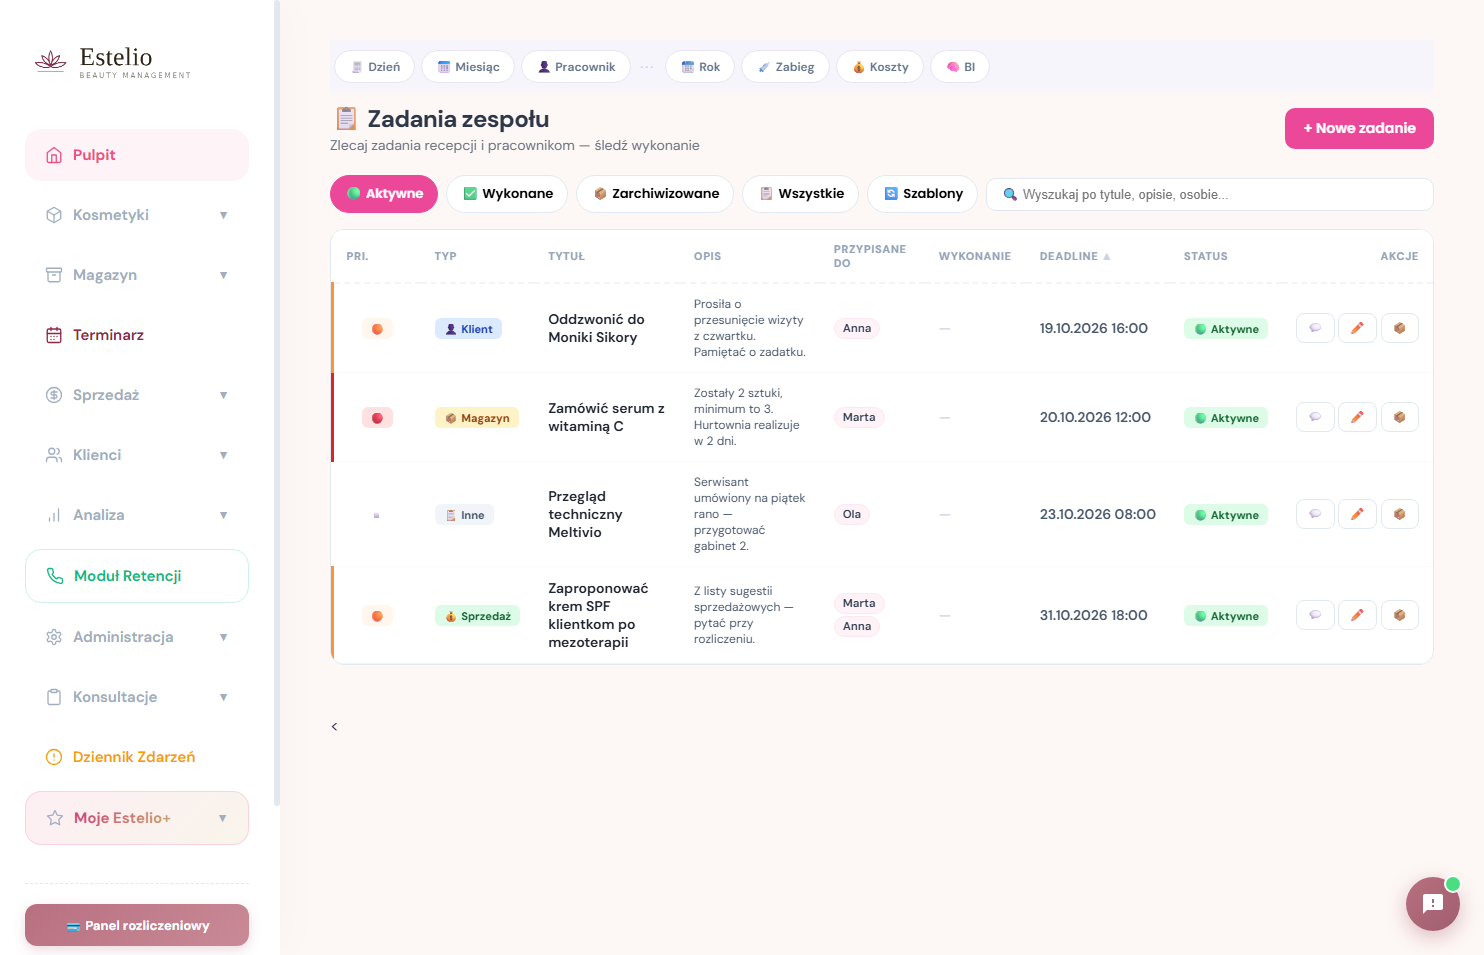
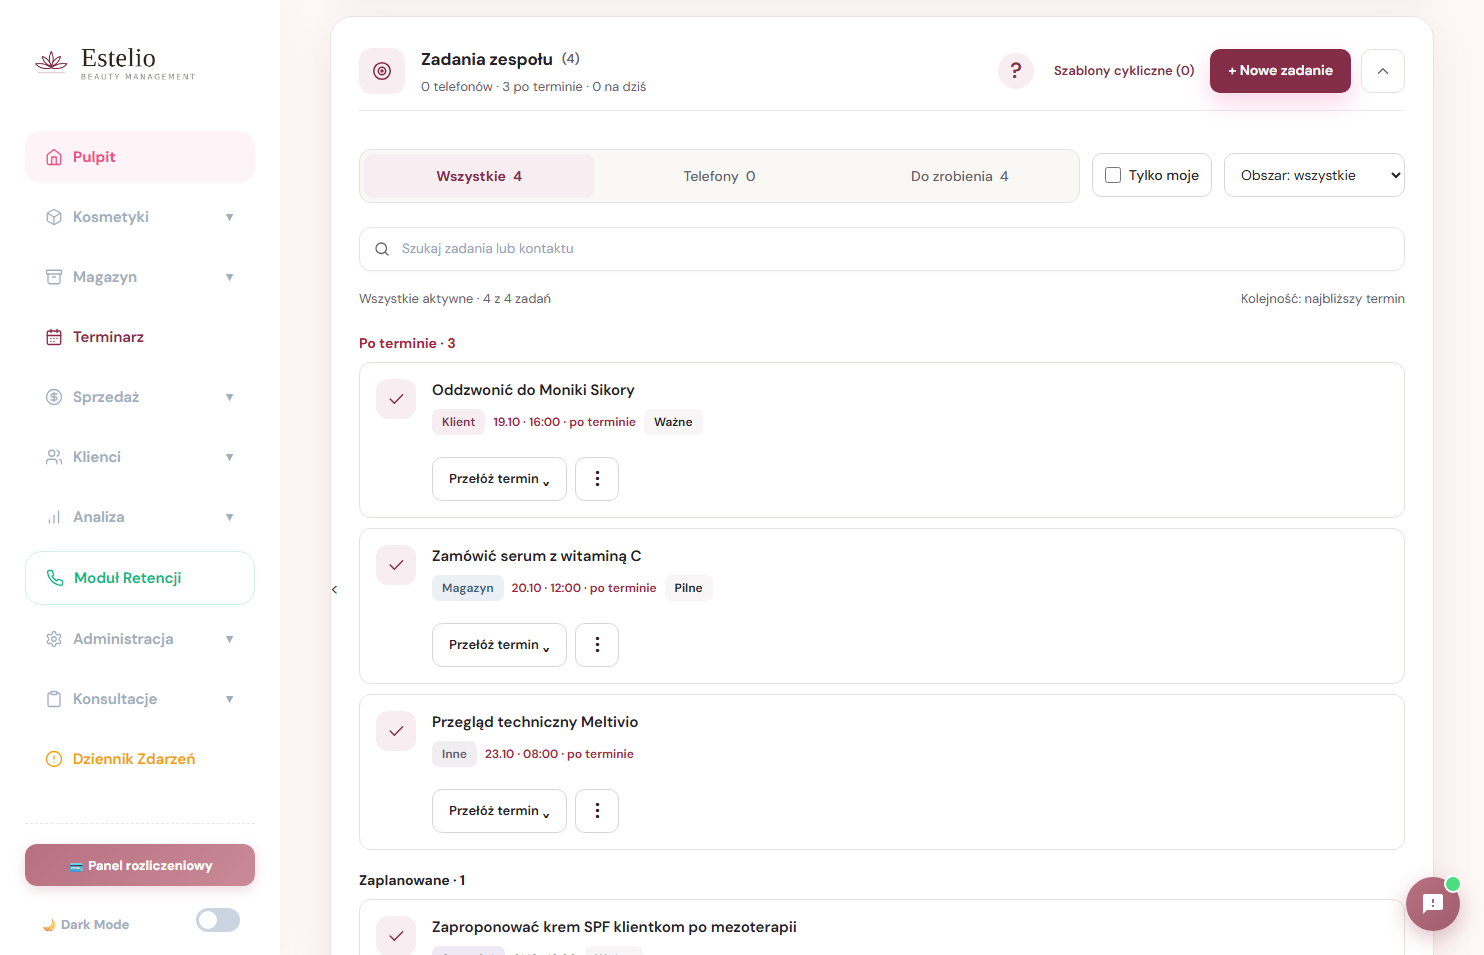
docs(pomoc): rozdział Pulpit — nowy opis widgetu Zadań, bez kafelka „Dziś w lokalu”, świeże zrzuty
- #pulpit: scenariusz poranny i sekcja „Twoje zadania” opisują jedną listę z przełącznikami
  Wszystkie/Telefony/Do zrobienia, Zadzwoń, Przełóż termin; usunięty kafelek Booksy z listy skrótów
- zrzuty pom-03-pulpit.png i pom-39-zadania.png wykonane na izolowanym środowisku po redesignie (1484×955)

diff --git a/public/estelio_pomoc_f.html b/public/estelio_pomoc_f.html
@@ -374,8 +374,8 @@
           <p><strong>Pulpit ma 5 sekcji ułożonych od góry:</strong></p>
           <p><strong>1. "Dzień dobry, Marta! 👋"</strong> + zegar aktualizacji</p>
           <p><strong>2. "📊 Na dziś"</strong> — kafelki KPI ale Marta jako recepcja TEGO NIE WIDZI (to widzi tylko manager/admin). Sekcja ukryta.</p>
-          <p><strong>3. "📋 Twoje zadania"</strong> — banner pokazuje "Masz 3 zadania na dziś, 1 wymaga pilnego działania". Patrycja zostawiła Marcie zadanie "Zadzwoń do Pani Kowalskiej w sprawie rezerwacji" z priorytetem PILNY i terminem na dziś 14:00. Plus "Sprawdź stan kremów Vagheggi" (zwykłe).</p>
-          <p><strong>4. "⚡ Szybki dostęp"</strong> — kompaktowe kafelki-skróty. Marta widzi: Podsumowanie dnia / Do sprawdzenia (z licznikiem spraw) / Dziś w lokalu / Foto przed/po / Link do płatności.</p>
+          <p><strong>3. "Twoje zadania"</strong> — nagłówek mówi: "Masz 3 aktywne zadania · 1 telefon · 1 po terminie · 1 na dziś". Lista otwiera się w widoku <strong>Wszystkie</strong>, pogrupowana czasem. Patrycja zostawiła Marcie telefon "Potwierdzić rezerwację — Pani Kowalska" z numerem i przyciskiem <strong>Zadzwoń</strong>, w grupie "Na dziś" ze znacznikiem "Pilne". Plus "Sprawdź stan kremów Vagheggi" (do zrobienia).</p>
+          <p><strong>4. "⚡ Szybki dostęp"</strong> — kompaktowe kafelki-skróty. Marta widzi: Podsumowanie dnia / Do sprawdzenia (z licznikiem spraw) / Foto przed/po / Link do płatności.</p>
           <p><strong>5. "⚠ Wymaga uwagi"</strong> — alert: "95 produktów ma niski stan magazynowy", "9 zbliżających się urodzin (2 dziś!)", "87 klientów bez kompletu RODO".</p>
           <div class="scenario-result">Marta wie: 1) zadzwonić do Pani Kowalskiej, 2) zadzwonić do 2 jubilatek, 3) sprawdzić kremy. Plan dnia gotowy w 10 sekund.</div>
         </div>
@@ -391,13 +391,14 @@
       </ul>
       <p><strong>Recepcja, kosmetolog, praktykantka — tej sekcji NIE widzą.</strong> Ochrona — to liczby zarządcze, dla managera/admina.</p>
 
-      <h3>Sekcja "📋 Twoje zadania"</h3>
-      <p>Widget zadań — opisany szczegółowo w sekcji <strong>Zadania</strong>. Tu krótko:</p>
+      <h3>Sekcja "Twoje zadania" (od 27.10.2026 — jedna lista)</h3>
+      <p>Widget zadań — opisany szczegółowo w sekcji <a href="#zadania-widget"><strong>Zadania</strong></a>. Tu krótko:</p>
       <ul>
-        <li>Banner "Masz X zadań na dziś, Y pilnych" — dynamiczny licznik</li>
-        <li>5 zakładek: Klient · Magazyn · Kosmetyk · Sprzedaż · Inne</li>
-        <li>Lista pogrupowana: ❗ Pilne, 🕘 Na dziś, 📅 Zaplanowane, 🗒 Bez terminu</li>
-        <li>Przycisk "+ Nowe zadanie" — jeśli Twoja rola pozwala (recepcja+)</li>
+        <li>Nagłówek "Masz X aktywnych zadań" + "ile telefonów · ile po terminie · ile na dziś"</li>
+        <li>Trzy przełączniki: <strong>Wszystkie · Telefony · Do zrobienia</strong> — liczby się sumują, domyślnie Wszystkie; obok "Tylko moje", filtr obszaru i wyszukiwarka</li>
+        <li>Lista pogrupowana czasem: Po terminie · Na dziś · Zaplanowane · Bez terminu (po 4 wiersze, dalej "Pokaż pozostałe")</li>
+        <li>Przy telefonie: przycisk <strong>Zadzwoń · numer</strong> i "Oddzwonić później"; przy każdym zadaniu "Przełóż termin", "Zrobione" i menu "⋮"</li>
+        <li>Przycisk "+ Nowe zadanie" i link "Szablony cykliczne" — jeśli Twoja rola pozwala (recepcja+)</li>
       </ul>
 
       <h3>Sekcja "⚡ Szybki dostęp"</h3>
@@ -405,7 +406,6 @@
       <div class="feature-grid">
         <div class="feature"><div class="feature-icon">🗓</div><strong>Podsumowanie dnia</strong><span>Pełny raport z dzisiejszych działań — kasowo i analitycznie</span></div>
         <div class="feature"><div class="feature-icon">🔎</div><strong>Do sprawdzenia</strong><span>Pomocny przegląd dla recepcji: wiszące zadatki, wygasające karnety, drobiazgi do ogarnięcia. Pomarańczowy licznik pokazuje ile spraw czeka</span></div>
-        <div class="feature"><div class="feature-icon">📅</div><strong>Dziś w lokalu</strong><span>Wizyty z Booksy na dzisiaj — kto i o której przychodzi (widoczne, gdy salon ma podpiętą skrzynkę Booksy)</span></div>
         <div class="feature"><div class="feature-icon">📷</div><strong>Foto przed/po</strong><span>Start sesji zdjęciowej klientki (widoczne przy aktywnym dodatku)</span></div>
         <div class="feature"><div class="feature-icon">🔗</div><strong>Link do płatności</strong><span>Płatność online tpay z akceptacją regulaminu (widoczne przy aktywnym dodatku)</span></div>
       </div>
